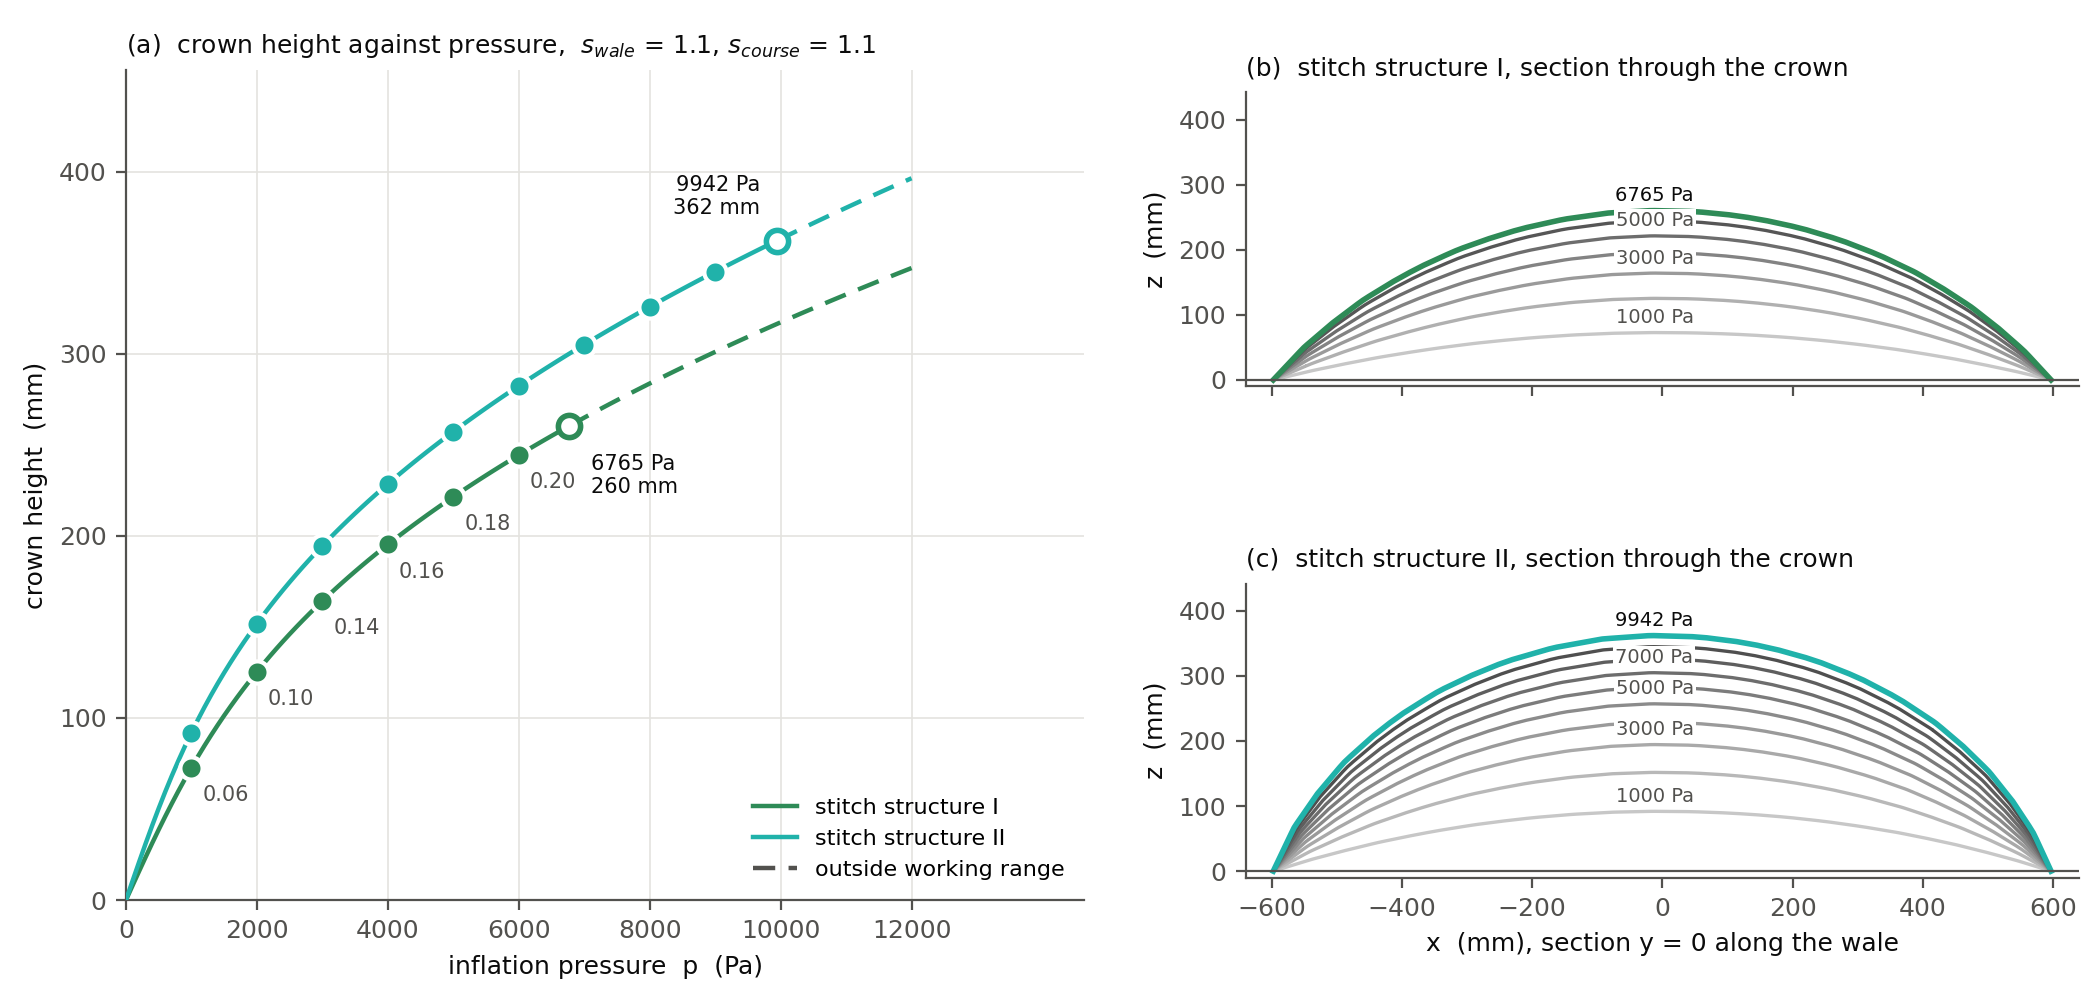
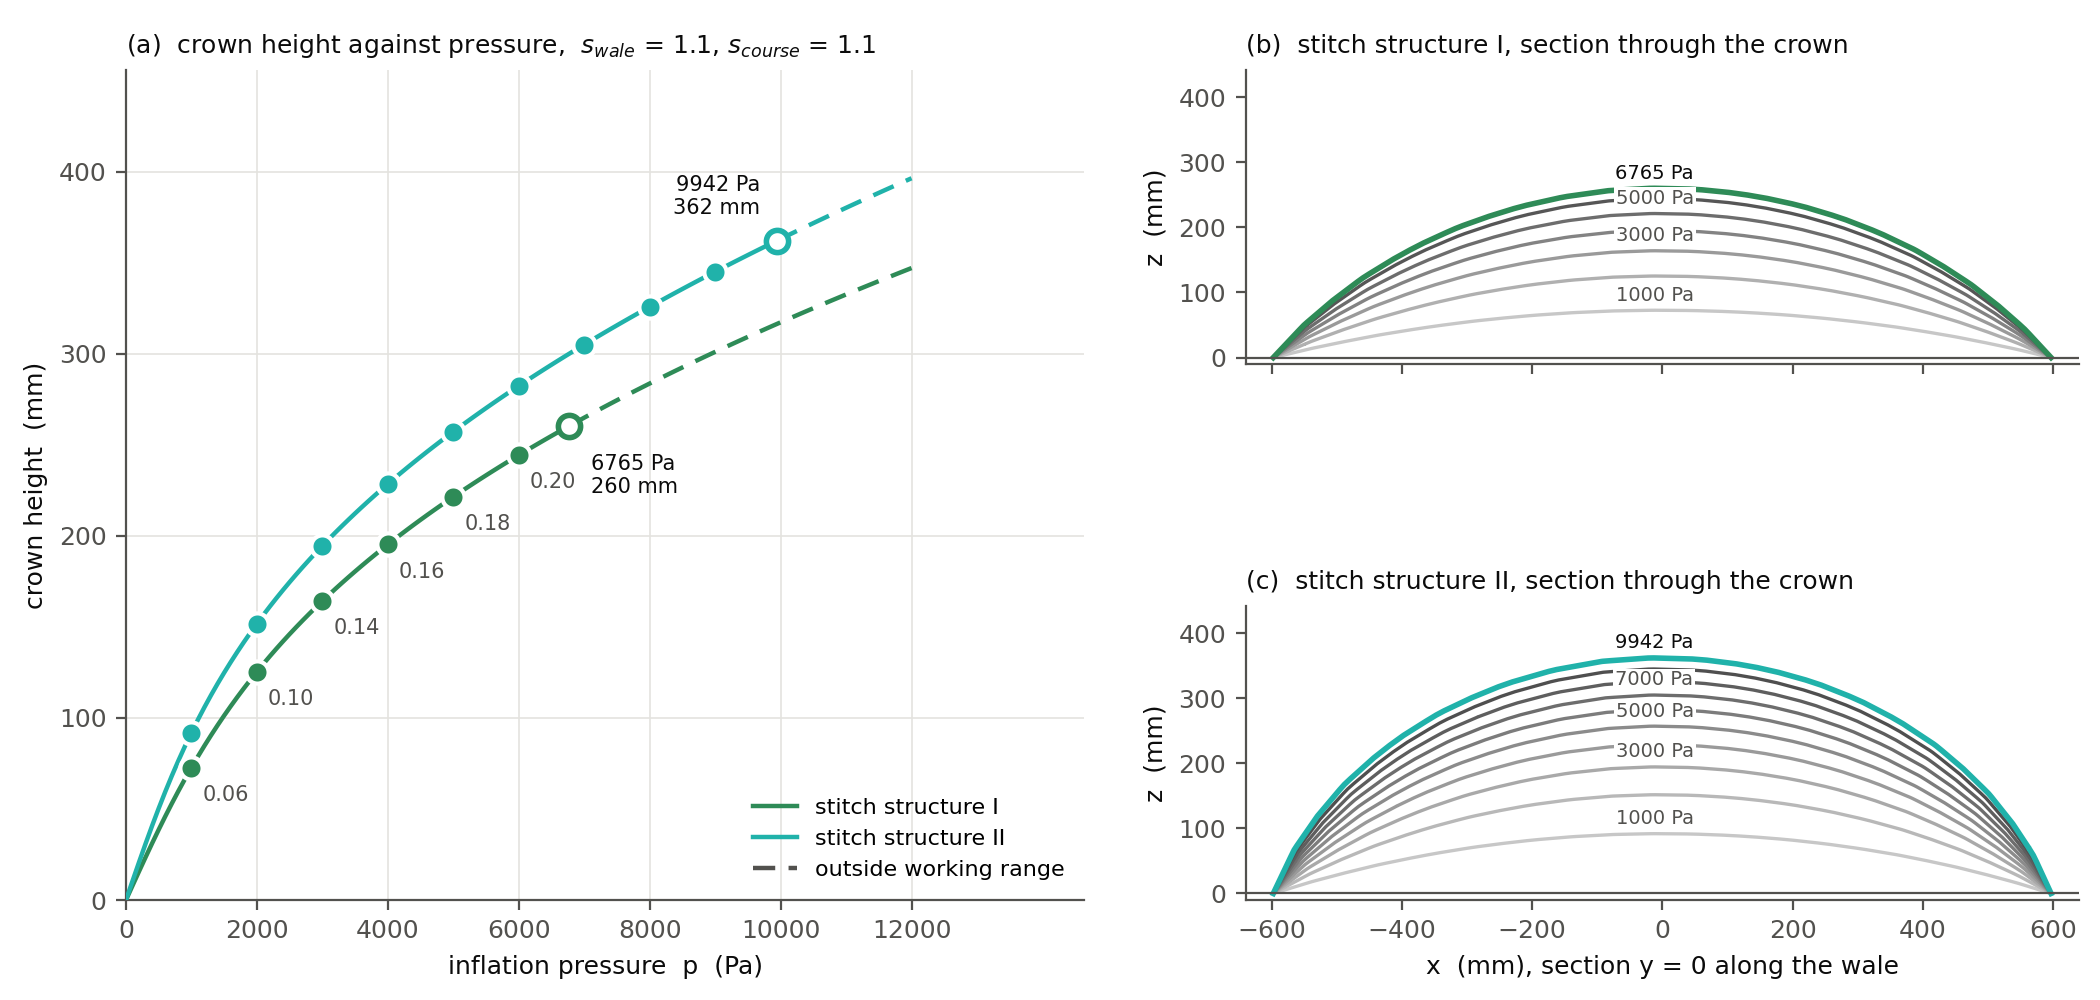
Figure 7.6: (a) and (b) titles on one line
Section panels anchored to the top/bottom of their cells so (b) is level
with (a) at the top and (c) at the bottom.

diff --git a/sensitivity_analysis/plot_pressure_sweep.py b/sensitivity_analysis/plot_pressure_sweep.py
@@ -139,7 +139,7 @@ def main():
                             ha="center", va="bottom", fontsize=7, color=INK if r.at_limit else INK2,
                             bbox=dict(boxstyle="square,pad=0.1", fc="white", ec="none"))
         bx.axhline(0, color=INK2, lw=0.8)
-        bx.set_aspect("equal")
+        bx.set_aspect("equal", anchor="N" if st == "I" else "S")   # (b) top level with (a), titles on one line
         bx.set_xlim(-640, 640)
         bx.set_ylim(-10, ztop)
         bx.set_ylabel("z  (mm)")
